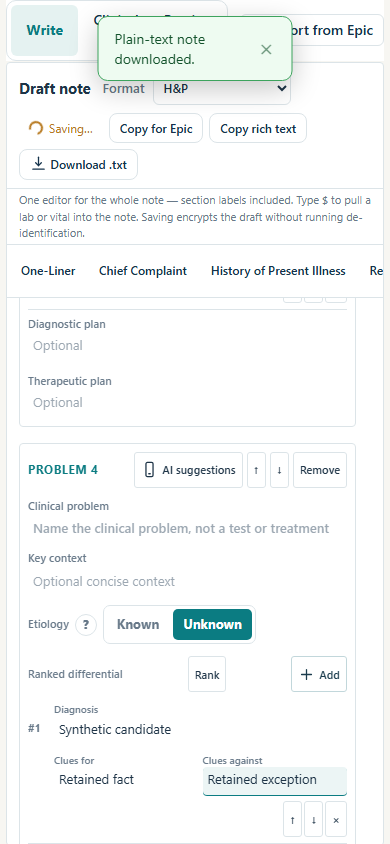
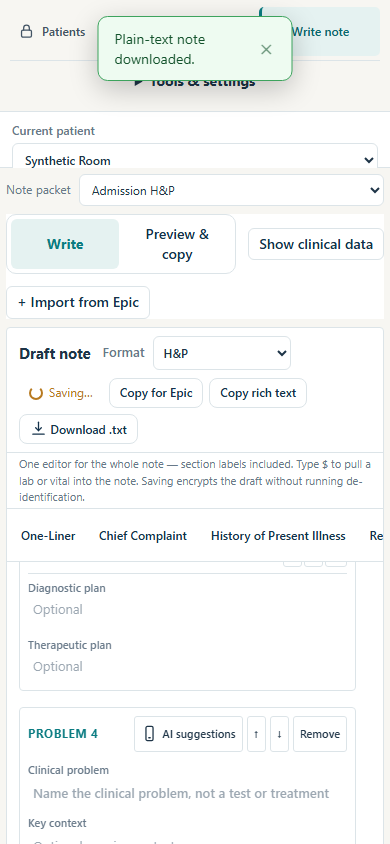
Replace duplicate writer modes with an explicit clinical data toggle

diff --git a/src/ui/review/presentation.js b/src/ui/review/presentation.js
@@ -357,8 +357,6 @@ export function createReviewPresentation({ escapeHtml, icon }) {
       + (showLabs ? (index.labs || []).filter((candidate) => candidate.kind === "narrative" && matchesQuery(candidate.searchText, q)).length : 0)
       + (showMeds ? (index.medications || []).filter((candidate) => matchesQuery(candidate.searchText, q)).length : 0)
       + (showDiagnostics ? (index.diagnosticResults || []).filter((candidate) => (!category || category === "all" || candidate.group === category) && matchesQuery(candidate.searchText, q)).length : 0);
-    const toggleLabel = clinicalDataCollapsed ? "Show clinical data" : "Hide clinical data";
-    const toggleIcon = clinicalDataCollapsed ? "▶" : "◀";
     // U4: when pasted text produced zero structured rows, say exactly what the
     // parser accepts so the student can re-paste in a supported format —
     // never claim parsing succeeded.
@@ -388,22 +386,11 @@ export function createReviewPresentation({ escapeHtml, icon }) {
       <p class="review-filter-summary" aria-live="polite">${matchCount} matching item${matchCount === 1 ? "" : "s"}</p>
       ${zeroYieldHint}
       <div class="review-data-list">${sections.length ? sections.join("") : `<div class="empty-state">No saved clinical data match this search.</div>`}</div>`;
-    // Both the collapsed rail and the full content are always rendered;
-    // the controller toggles `hidden` between them. Collapsing never
-    // re-renders, so scroll position and focus survive the toggle.
-    // (bodyHtml is built unconditionally above for this reason.)
-    const railHtml = `
-      <div class="clinical-data-rail" data-clinical-data-rail${clinicalDataCollapsed ? "" : " hidden"}>
-        <button type="button" class="clinical-data-rail-toggle" data-action="toggle-clinical-data" title="Show clinical data" aria-label="Show clinical data" aria-expanded="false">▶</button>
-        <span class="clinical-data-rail-label" aria-hidden="true">Clinical data</span>
-      </div>`;
-    const fullHtml = `
-      <div class="clinical-data-full" data-clinical-data-full${clinicalDataCollapsed ? " hidden" : ""}>
-      <div class="section-heading"><div><h2 id="reviewDataHeading">Clinical data</h2><p class="muted">Vitals and medications are in the note automatically — uncheck to remove. Check labs or results to add them.</p></div><button type="button" class="ed-mini" data-action="toggle-clinical-data" title="${toggleLabel}" aria-label="${toggleLabel}" aria-expanded="${!clinicalDataCollapsed}">${toggleIcon}</button></div>
-      ${bodyHtml}
-      </div>`;
-    return `<section class="review-data-panel panel${clinicalDataCollapsed ? " is-collapsed" : ""}" aria-labelledby="reviewDataHeading" data-clinical-data-collapsed="${clinicalDataCollapsed ? "true" : "false"}">
-      ${railHtml}${fullHtml}
+    return `<section id="reviewClinicalData" class="review-data-panel panel" aria-labelledby="reviewDataHeading" ${clinicalDataCollapsed ? "hidden" : ""}>
+      <div class="clinical-data-full" data-clinical-data-full>
+        <div class="section-heading"><div><h2 id="reviewDataHeading">Clinical data</h2><p class="muted">Vitals and medications are in the note automatically — uncheck to remove. Check labs or results to add them.</p></div></div>
+        ${bodyHtml}
+      </div>
     </section>`;
   }
 
@@ -972,13 +959,13 @@ export function createReviewPresentation({ escapeHtml, icon }) {
     const flaggedBanner = flaggedResults.length
       ? `<div class="review-flag-banner" role="alert"><strong>⚠ ${flaggedResults.length} result${flaggedResults.length === 1 ? "" : "s"} need${flaggedResults.length === 1 ? "s" : ""} report text:</strong> ${flaggedResults.map((candidate) => escapeHtml(candidate.name)).join(", ")}. <span class="muted">Open each in the admissions tab and paste the full report.</span></div>`
       : "";
-    return `<div class="review-workspace" data-workspace-tab="${workspaceTab}">
+    return `<div class="review-workspace" data-workspace-tab="${workspaceTab}" data-clinical-data-visible="${!clinicalDataCollapsed}">
       <div class="patient-identity-bar" role="status" aria-label="Active patient"><span class="patient-identity-bar-label">Patient</span><strong>${escapeHtml(patientLabel)}</strong></div>
       <header class="review-hero panel">
         <div><span class="eyebrow">${escapeHtml(patientLabel)}</span><h1 id="review-heading">Write note</h1><p class="review-one-liner ${oneLiner ? "" : "is-empty"}">${escapeHtml(oneLiner || "One-liner not entered yet. You can continue and add it in the draft.")}</p></div>
         <label class="review-packet-label">Note packet<select id="reviewPacketSelect">${packets.map((packet) => `<option value="${escapeHtml(packet.id)}" ${packet.id === selectedPacketId ? "selected" : ""}>${escapeHtml(packet.label)}</option>`).join("")}</select></label>
       </header>
-      <div class="writing-workflow-bar"><div role="tablist" aria-label="Writing workspace">${[["note", "Write"], ["sources", "Clinical data"], ["preview", "Preview & copy"]].map(([id,label]) => `<button type="button" role="tab" aria-selected="${workspaceTab === id}" data-action="workspace-tab" data-workspace-tab="${id}">${label}</button>`).join("")}</div><button type="button" data-action="import-for-note">+ Import from Epic</button></div>
+      <div class="writing-workflow-bar"><div role="tablist" aria-label="Writing workspace">${[["note", "Write"], ["preview", "Preview & copy"]].map(([id,label]) => `<button type="button" role="tab" aria-selected="${workspaceTab === id}" data-action="workspace-tab" data-workspace-tab="${id}">${label}</button>`).join("")}</div><button type="button" data-action="toggle-clinical-data" aria-controls="reviewClinicalData" aria-expanded="${!clinicalDataCollapsed}" ${workspaceTab === "preview" ? "hidden" : ""}>${clinicalDataCollapsed ? "Show clinical data" : "Hide clinical data"}</button><button type="button" data-action="import-for-note">+ Import from Epic</button></div>
       ${flaggedBanner}
       <section class="note-export-preview panel" ${workspaceTab !== "preview" ? "hidden" : ""} aria-label="Final note preview"><div class="section-heading"><div><h2>Review before copying</h2><p class="muted">This is the exact plain text that will be copied. Check source facts and remove any placeholders.</p></div><button type="button" data-action="copy-final-note" class="button--primary">Copy for Epic</button></div><pre>${escapeHtml(previewText || "No note content yet. Return to Write to begin.")}</pre><div class="button-row"><button type="button" data-action="workspace-tab" data-workspace-tab="note">Back to writing</button><button type="button" data-action="copy-rich-note">Copy rich text</button><button type="button" data-action="download-final-note">Download .txt</button></div></section>
       <div class="review-columns" ${workspaceTab === "preview" ? "hidden" : ""}>${renderDataExplorer({ index, selectedIds, query, category, baselineEditorId, collapsedFamilies, clinicalDataCollapsed })}${renderDraft({ draft, guidanceFor, differenceSelectionId, collapsedObjectiveGroups, smartExamUi, collapsedDraftSections, generatingApProblemId, apConfirm, apSuggestions })}</div>

diff --git a/src/ui/review/controller.js b/src/ui/review/controller.js
@@ -228,7 +228,7 @@ export function createReviewController(deps) {
 
   // Whether the Clinical Data panel is collapsed (user can focus on the note).
   // Local UI state only; survives re-renders.
-  let clinicalDataCollapsed = false;
+  let clinicalDataCollapsed = true;
   let workspaceTab = "note";
 
   // Find the nearest ancestor (or self) that is actually scrolled —
@@ -2323,7 +2323,7 @@ export function createReviewController(deps) {
     }
     if (action === "workspace-tab") {
       const requested = button.dataset.workspaceTab;
-      if (!["sources", "note", "preview"].includes(requested)) return true;
+      if (!["note", "preview"].includes(requested)) return true;
       workspaceTab = requested;
       render();
       deps.byId("reviewContent")?.querySelector(`[data-workspace-tab="${requested}"]`)?.focus({ preventScroll: true });
@@ -2431,91 +2431,16 @@ export function createReviewController(deps) {
       return true;
     }
     if (action === "toggle-clinical-data") {
-      // True surgical toggle: both the rail and the full content are
-      // always in the DOM (see renderDataExplorer). Flipping `hidden`
-      // never destroys the search input, the data list, or their state.
-      // Scroll preservation: the panel (or document, when the sticky panel
-      // itself doesn't scroll) keeps its scrollTop; save it on hide and
-      // restore it on show after layout settles.
-      const panel = target.closest(".review-data-panel");
-      const rail = panel?.querySelector("[data-clinical-data-rail]");
-      const full = panel?.querySelector("[data-clinical-data-full]");
-      const wasCollapsed = panel?.dataset.clinicalDataCollapsed === "true";
-      if (!wasCollapsed && panel && full && typeof document !== "undefined") {
-        const scroller = findScroller(full);
-        panel.dataset.savedScrollTop = String(scroller.scrollTop);
-        panel.dataset.scrollerIsDocument = String(
-          scroller === document.documentElement || scroller === document.body
-        );
-        // DEBUG v21: full ancestor scroll chain.
-        const chain = [];
-        let node = full;
-        while (node && node !== document.body && chain.length < 12) {
-          if (node instanceof HTMLElement) {
-            const r = node.getBoundingClientRect();
-            chain.push(`${node.tagName}.${(node.className || "").toString().split(" ")[0]}:st=${node.scrollTop},sh=${node.scrollHeight},ch=${node.clientHeight},top=${Math.round(r.top)}`);
-          }
-          node = node.parentElement;
-        }
-        panel.dataset.dbgChainHide = chain.join(" | ");
-      }
-      const nowCollapsed = !wasCollapsed;
-      // Keep the module variable in sync for the view model (initial render).
-      clinicalDataCollapsed = nowCollapsed;
-      // Blur the clicked toggle button: when its container hides, the
-      // browser may scroll the panel to keep the focused (now hidden)
-      // button in view, clobbering our restore.
-      if (typeof document !== "undefined" && document.activeElement instanceof HTMLElement) {
-        document.activeElement.blur();
-      }
-      if (rail) rail.hidden = !nowCollapsed;
-      if (full) full.hidden = nowCollapsed;
-      panel?.classList.toggle("is-collapsed", nowCollapsed);
-      if (panel) panel.dataset.clinicalDataCollapsed = String(nowCollapsed);
-      panel?.querySelectorAll('[data-action="toggle-clinical-data"]').forEach((btn) => {
-        btn.setAttribute("aria-expanded", String(!nowCollapsed));
-      });
-      if (panel && !nowCollapsed) {
-        const restoreTo = Number(panel.dataset.savedScrollTop || 0);
-        const scrollerIsDocument = panel.dataset.scrollerIsDocument === "true";
-        const ident = (el) => el ? `${el.tagName}.${(el.className || "").toString().split(" ")[0]}` : "(null)";
-        const doRestore = () => {
-          let target = findScroller(full || panel);
-          if (scrollerIsDocument && typeof document !== "undefined") {
-            target = document.documentElement;
-            document.body.scrollTop = restoreTo;
-          }
-          void target.scrollHeight; // force layout before setting scroll
-          target.scrollTop = restoreTo;
-          // DEBUG v20: record what restore did.
-          panel.dataset.dbgRestoreTarget = ident(target);
-          panel.dataset.dbgRestoreSet = `${restoreTo}->${target.scrollTop}`;
-        };
-        // Restore repeatedly: rAF for layout, then timeouts to beat any
-        // late browser scroll adjustments from the grid/display change.
-        if (typeof requestAnimationFrame !== "undefined") {
-          requestAnimationFrame(() => requestAnimationFrame(doRestore));
-        }
-        if (typeof setTimeout !== "undefined") {
-          setTimeout(doRestore, 50);
-          setTimeout(doRestore, 150);
-          // DEBUG v21: late chain — which box actually shows the content?
-          setTimeout(() => {
-            const chain = [];
-            let node = full;
-            while (node && node !== document.body && chain.length < 12) {
-              if (node instanceof HTMLElement) {
-                const r = node.getBoundingClientRect();
-                chain.push(`${node.tagName}.${(node.className || "").toString().split(" ")[0]}:st=${node.scrollTop},sh=${node.scrollHeight},ch=${node.clientHeight},top=${Math.round(r.top)}`);
-              }
-              node = node.parentElement;
-            }
-            panel.dataset.dbgChainLate = chain.join(" | ");
-          }, 600);
-        } else {
-          doRestore();
-        }
-      }
+      const workspace = deps.byId("reviewContent")?.querySelector(".review-workspace");
+      const panel = workspace?.querySelector("#reviewClinicalData");
+      if (!workspace || !panel) return true;
+      // One visibility state; keep the editor and source controls mounted so
+      // typing, selection, filters and their own scroll positions survive.
+      clinicalDataCollapsed = !clinicalDataCollapsed;
+      panel.hidden = clinicalDataCollapsed;
+      workspace.dataset.clinicalDataVisible = String(!clinicalDataCollapsed);
+      button.setAttribute("aria-expanded", String(!clinicalDataCollapsed));
+      button.textContent = clinicalDataCollapsed ? "Show clinical data" : "Hide clinical data";
       return true;
     }
     if (action === "toggle-objective-group") {
@@ -2863,5 +2788,5 @@ export function createReviewController(deps) {
       return handled;
     };
   }
-  return Object.freeze({ clearRequest: () => { clearApSession(); workspaceTab = "note"; }, change: withAutoSave(change), click: withAutoSave(click), input, keydown, open, prepare, render, saveDraft, toggle: withAutoSave(toggle), getDraftNoteText, getDraftNoteSections });
+  return Object.freeze({ clearRequest: () => { clearApSession(); workspaceTab = "note"; clinicalDataCollapsed = true; }, change: withAutoSave(change), click: withAutoSave(click), input, keydown, open, prepare, render, saveDraft, toggle: withAutoSave(toggle), getDraftNoteText, getDraftNoteSections });
 }

diff --git a/styles.css b/styles.css
@@ -14040,7 +14040,7 @@ div.ap-inline-change { display: block; margin: 0.3rem 0; }
 .review-hero{border-top:3px solid var(--accent)}
 @media(min-width:1100px){.review-columns{grid-template-columns:minmax(270px,.7fr) minmax(0,1.65fr)}}
 @media(max-width:1100px){.structured-note-section-layout.has-original{grid-template-columns:minmax(145px,.7fr) minmax(240px,1.3fr)}.note-original-pane{grid-column:1/-1}.note-original-pane textarea{min-height:140px;max-height:260px}}
-@media(max-width:760px){.structured-note-section-layout.has-original{grid-template-columns:1fr}.note-original-pane{grid-column:auto}.structured-note-section-nav{max-height:170px;overflow:auto}.review-workspace[data-workspace-tab=note] .review-data-panel{display:none}.review-workspace[data-workspace-tab=sources] .note-draft-panel{display:none}.review-workspace .review-columns{display:block}.writing-workflow-bar{position:sticky;top:0;z-index:4;background:var(--background,var(--surface));padding:8px 0}.writing-workflow-bar [role=tablist]{flex:1}.writing-workflow-bar [role=tab]{flex:1}.note-mapping-tools .button-row{flex-wrap:wrap}.note-mapping-tools button{min-height:44px}}
+@media(max-width:760px){.structured-note-section-layout.has-original{grid-template-columns:1fr}.note-original-pane{grid-column:auto}.structured-note-section-nav{max-height:170px;overflow:auto}.review-workspace[data-clinical-data-visible="false"] .review-data-panel{display:none}.review-workspace[data-clinical-data-visible="true"] .review-columns .note-draft-panel{display:none}.review-workspace .review-columns{display:block}.writing-workflow-bar{position:sticky;top:0;z-index:4;background:var(--background,var(--surface));padding:8px 0}.writing-workflow-bar [role=tablist]{flex:1}.writing-workflow-bar [role=tab]{flex:1}.note-mapping-tools .button-row{flex-wrap:wrap}.note-mapping-tools button{min-height:44px}}
 
 .secondary-navigation > summary{cursor:pointer;padding:10px 8px;font-weight:650;min-height:44px}
 @media(min-width:1041px){.secondary-navigation > summary{display:none}}
@@ -14239,8 +14239,8 @@ div.ap-inline-change { display: block; margin: 0.3rem 0; }
 .review-packet-label select { width:200px; min-height:32px; padding:4px 8px; }
 .review-workspace > .writing-workflow-bar { grid-column:2; margin:0; padding:0; min-height:34px; }
 .writing-workflow-bar button { min-height:32px; padding:5px 10px; }
-.review-workspace[data-workspace-tab="note"] .review-data-panel { display:none; }
-.review-workspace[data-workspace-tab="note"] .review-columns { display:block; }
+.review-workspace[data-clinical-data-visible="false"] .review-data-panel { display:none; }
+.review-workspace[data-clinical-data-visible="false"] .review-columns { display:block; }
 .review-workspace .review-columns .note-draft-panel { position:static; max-height:none; border:1px solid var(--border); border-radius:4px; padding:0; display:block; }
 .note-draft-panel .note-editor-toolbar { padding:8px 12px; gap:8px; min-height:44px; }
 .note-editor-title h2 { font-size:15px; }
@@ -14274,9 +14274,9 @@ div.ap-inline-change { display: block; margin: 0.3rem 0; }
 .differential-row .ed-decision1 { grid-column:1; font-size:10px; padding:1px; border-radius:2px; }
 .differential-row .ed-sub-label { font-size:10px; margin:0; }
 .differential-row .ed-body { font-size:13px; min-height:28px; line-height:1.35; }
-.review-workspace[data-workspace-tab="sources"] .writer-layout { grid-template-columns:minmax(0,1fr); }
-.review-workspace[data-workspace-tab="sources"] .writer-outline { display:none; }
-.review-workspace[data-workspace-tab="sources"] .differential-row { grid-template-columns:24px minmax(0,1fr) minmax(0,1fr) minmax(0,1fr) 80px; }
+.review-workspace[data-clinical-data-visible="true"] .writer-layout { grid-template-columns:minmax(0,1fr); }
+.review-workspace[data-clinical-data-visible="true"] .writer-outline { display:none; }
+.review-workspace[data-clinical-data-visible="true"] .differential-row { grid-template-columns:24px minmax(0,1fr) minmax(0,1fr) minmax(0,1fr) 80px; }
 @media(max-width:1040px) {
  .writer-layout { height:clamp(350px,calc(100dvh - 290px),700px); }
  .review-workspace { grid-template-columns:minmax(0,1fr); }
@@ -14296,7 +14296,7 @@ div.ap-inline-change { display: block; margin: 0.3rem 0; }
  .differential-row .differential-row-actions { grid-column:2/4; grid-row:3; padding:0; justify-content:flex-end; }
  .note-editor .ed-mini { min-height:36px; }
  .plan-problem-card > .ed-sub { grid-template-columns:1fr; gap:2px; }
- .review-workspace[data-workspace-tab="sources"] .writer-layout { display:none; }
+ .review-workspace[data-clinical-data-visible="true"] .writer-layout { display:none; }
 }
 /* Epic import keeps the source, section index and corrections in one fixed workspace. */
 .note-arrange-workspace { grid-template-columns:160px minmax(0,1fr); }

diff --git a/tests/test-review-data-browser.js b/tests/test-review-data-browser.js
@@ -237,7 +237,7 @@ Sodium: 138`;
 
   // Clinical data is one tab from the full-width writer; it has no pagination.
   await page.click('[data-view-target="review"]');
-  await page.getByRole("tab", { name: "Clinical data", exact: true }).click();
+  if (await page.getByRole("button", { name: "Show clinical data", exact: true }).count()) await page.getByRole("button", { name: "Show clinical data", exact: true }).click();
   await page.waitForSelector("#reviewContent .review-workspace");
   assert.equal(await page.locator("#reviewDataCategory").inputValue(), "all", "opening Patient Data Review must reveal labs, vitals, medications, and results");
   assert.equal(await page.locator(".review-data-pagination").count(), 0, "the compact sheet must not paginate");
@@ -308,7 +308,7 @@ Sodium: 138`;
   await hrChip.locator('[data-objective-selection-id]').uncheck();
   await page.click('[data-view-target="daily"]');
   await page.click('[data-view-target="review"]');
-  await page.getByRole("tab", { name: "Clinical data", exact: true }).click();
+  if (await page.getByRole("button", { name: "Show clinical data", exact: true }).count()) await page.getByRole("button", { name: "Show clinical data", exact: true }).click();
   await page.waitForSelector("#reviewContent .review-workspace");
   assert.equal(await page.locator(".vital-row", { hasText: "Heart Rate" }).first().locator('[data-objective-selection-id]').isChecked(), false, "deselected vitals must stay out of the note");
 
@@ -317,7 +317,7 @@ Sodium: 138`;
   await page.waitForFunction(() => [...document.querySelectorAll('.compact-medications [data-objective-selection-id]')].filter((box) => box.checked).length === 1);
   await page.click('[data-view-target="daily"]');
   await page.click('[data-view-target="review"]');
-  await page.getByRole("tab", { name: "Clinical data", exact: true }).click();
+  if (await page.getByRole("button", { name: "Show clinical data", exact: true }).count()) await page.getByRole("button", { name: "Show clinical data", exact: true }).click();
   await page.waitForSelector("#reviewContent .review-workspace");
   assert.equal(await page.locator(".scaffold-med-list li").count(), 1, "removed medications must stay removed");
 
@@ -341,7 +341,7 @@ Sodium: 138`;
   await page.click('[data-action="save-day"]');
   await page.waitForFunction(() => /Source edits saved/.test(document.querySelector("#statusLine")?.textContent || ""));
   await page.click('[data-view-target="review"]');
-  await page.getByRole("tab", { name: "Clinical data", exact: true }).click();
+  if (await page.getByRole("button", { name: "Show clinical data", exact: true }).count()) await page.getByRole("button", { name: "Show clinical data", exact: true }).click();
   await page.fill("#reviewDataSearch", "WBC");
   await page.waitForSelector('[data-action="refresh-objective-group"]');
   assert.equal((await editorText(wbcBlock.locator("[data-objective-group-text]"))).trim(), "Student wording: WBC has improved substantially.");
@@ -398,7 +398,7 @@ Sodium: 138`;
   await page.click('[data-action="select-structured-note-mode"][data-note-scope="daily"][data-note-mode="paste"]');
   assert.doesNotMatch(await page.locator('[data-structured-note-paste][data-structured-note-scope="daily"]').inputValue(), new RegExp(sessionOnlyRawToken), "locking must clear the session-only raw paste draft");
   await page.click('[data-view-target="review"]');
-  await page.getByRole("tab", { name: "Clinical data", exact: true }).click();
+  if (await page.getByRole("button", { name: "Show clinical data", exact: true }).count()) await page.getByRole("button", { name: "Show clinical data", exact: true }).click();
   await page.selectOption("#reviewPacketSelect", savedPacketValue);
   await page.fill("#reviewDataSearch", "CT Head/Neck");
   assert.equal(await page.locator('.compact-row [data-objective-selection-id]').first().isChecked(), true);

diff --git a/src/ui/app.js b/src/ui/app.js
@@ -1,4 +1,4 @@
-import { installNavigationDisclosure, syncNavigationDisclosure } from "./navigation.js?v=20261012-compact-workspaces";
+import { installNavigationDisclosure, syncNavigationDisclosure } from "./navigation.js?v=20261012-writer-controls";
 import {
   createDailyRecord,
   latestDay,
@@ -106,11 +106,11 @@ import {
   normalizeUserPreferences
 } from "../app/preferences.js?v=20261011-request-controls";
 import { icon } from "./icons.js?v=20260711-functional-remediation-15&icon=book-v1&icon=search-v1";
-import { createDailyPresentation } from "./daily/presentation.js?v=20261012-compact-workspaces";
-import { createDailySourceController } from "./daily/source-controller.js?v=20261012-compact-workspaces";
+import { createDailyPresentation } from "./daily/presentation.js?v=20261012-writer-controls";
+import { createDailySourceController } from "./daily/source-controller.js?v=20261012-writer-controls";
 import { navigateClinicalLabCollections, updateClinicalMedicationPage } from "./daily/clinical-display-controller.js?v=20260921-medication-card-v4";
-import { createReviewPresentation } from "./review/presentation.js?v=20261012-compact-workspaces";
-import { createReviewController } from "./review/controller.js?v=20261012-compact-workspaces";
+import { createReviewPresentation } from "./review/presentation.js?v=20261012-writer-controls";
+import { createReviewController } from "./review/controller.js?v=20261012-writer-controls";
 import { createPromptsPresentation, renderHighlightedSegments } from "./prompts/presentation.js?v=20261012-citation-preview";
 import {
   createPromptTaskController,
@@ -140,7 +140,7 @@ import { createQuickDeidPresentation } from "./quick-deid/presentation.js?v=2026
 import { createRuleLearnerDemo } from "./quick-deid/rule-learner-demo.js?v=20261011-epic-workflow";
 import { createDeidSessionCoordinator } from "./deid/session-coordinator.js?v=20261003-deid-adaptive";
 import { runQuickDeidLlmVerification, selectedLlmVerifierModel } from "./deid/llm-verifier-session.js?v=20261011-epic-workflow";
-import { createDemoController } from "./demo/controller.js?v=20261012-compact-workspaces";
+import { createDemoController } from "./demo/controller.js?v=20261012-writer-controls";
 import { createDemoPatient, DEMO_DAILY_TEXTS } from "./demo/session.js?v=20261012-citation-preview";
 import { createDemoSessionController } from "./demo/session-controller.js?v=20261012-citation-preview";
 import { createAiChatController } from "./ai-chat/controller.js?v=20261012-citation-preview";

diff --git a/tests/test-compact-writer-browser.js b/tests/test-compact-writer-browser.js
@@ -48,8 +48,15 @@ try {
     await link.click();
     assert.equal(await page.locator(`[data-draft-section-id="${id}"]`).getAttribute("open"), "");
   }
-  await page.getByRole("tab", { name: "Clinical data", exact: true }).click();
+  assert.equal(await page.getByRole("tab", { name: /Source|Clinical data/ }).count(), 0);
+  await page.getByRole("button", { name: "Show clinical data", exact: true }).click();
   assert.equal(await page.locator(".review-data-panel").isVisible(), true);
+  await page.locator("#reviewDataSearch").fill("retained filter");
+  await page.getByRole("button", { name: "Hide clinical data", exact: true }).click();
+  assert.equal(await page.locator(".review-data-panel").isVisible(), false);
+  await page.getByRole("button", { name: "Show clinical data", exact: true }).click();
+  assert.equal(await page.locator("#reviewDataSearch").inputValue(), "retained filter");
+  await page.getByRole("button", { name: "Hide clinical data", exact: true }).click();
   await page.getByRole("tab", { name: "Write", exact: true }).click();
   assert.equal(await page.locator(".writer-outline").isVisible(), true);
   await page.getByRole("tab", { name: "Preview & copy", exact: true }).click();
@@ -75,6 +82,12 @@ try {
     await last.locator('[data-differential-field="cluesFor"]').fill("Retained fact");
     await last.locator('[data-differential-field="cluesAgainst"]').fill("Retained exception");
     assert.equal(await page.evaluate(() => document.documentElement.scrollWidth <= innerWidth), true);
+    await page.getByRole("button", { name: "Show clinical data", exact: true }).click();
+    assert.equal(await page.locator(".review-data-panel").isVisible(), true);
+    if (width === 390) assert.equal(await page.locator(".note-draft-panel").isVisible(), false);
+    await page.getByRole("button", { name: "Hide clinical data", exact: true }).click();
+    assert.equal(await page.locator(".note-draft-panel").isVisible(), true);
+    assert.equal(await last.locator('[data-differential-field="cluesAgainst"]').innerText(), "Retained exception");
     if (width === 390 && !process.env.COMPACT_APP_URL) await page.screenshot({ path: "docs/compact-workspace/after-390-writer.png" });
   }
   assert.deepEqual(errors, []);

diff --git a/tests/test-guided-demo-browser.js b/tests/test-guided-demo-browser.js
@@ -158,7 +158,7 @@ try {
   assert.match(await page.locator("[data-draft-assessment]").innerText(), /high-risk NSTEMI/i);
   assert.equal(await page.locator(".plan-problem-card").count(), 3);
   assert.match(await page.locator('.plan-problem-card').first().locator('[data-problem-field="diagnosticPlan"]').innerText(), /Coronary angiography is planned today/i);
-  await page.getByRole("tab", { name: "Clinical data", exact: true }).click();
+  if (await page.getByRole("button", { name: "Show clinical data", exact: true }).count()) await page.getByRole("button", { name: "Show clinical data", exact: true }).click();
   await page.locator("#reviewDataSearch").click();
   await page.waitForTimeout(350); // cross the tour's delayed spotlight reposition
   assert.equal(await page.evaluate(() => document.activeElement?.id), "reviewDataSearch", "the writing tour must not steal focus from clinical-data search");

diff --git a/index.html b/index.html
@@ -41,7 +41,7 @@
     <meta name="twitter:description" content="Organize hospital-day updates, browse bedside cheat sheets, and draft OpenEvidence prompts — everything encrypted in your browser.">
     <title>Preround</title>
     <link rel="icon" href="./favicon.ico">
-    <link rel="stylesheet" href="./styles.css?v=20261012-compact-workspaces">
+    <link rel="stylesheet" href="./styles.css?v=20261012-writer-controls">
     <style>
     /* Scribe Pro in-app view: styles scoped under #scribeProView so they never
        leak into the app shell. Uses the app's light-theme tokens (no local
@@ -434,6 +434,6 @@
     </div>
 
     <input id="modelPackFolderInput" type="file" webkitdirectory multiple hidden>
-    <script type="module" src="./src/ui/app.js?v=20261012-compact-workspaces"></script>
+    <script type="module" src="./src/ui/app.js?v=20261012-writer-controls"></script>
   </body>
 </html>

diff --git a/docs/compact-workspace/README.md b/docs/compact-workspace/README.md
@@ -1,5 +1,7 @@
 # Compact workspaces: design and measured verification
 
+Follow-up: the overlapping Clinical data / Write modes have been replaced by one writer with an explicit Show/Hide clinical data button. Preview remains separate. The measurements and desktop screenshots below document the original compact-layout release `58819eaf`; the phone screenshot reflects the follow-up controls. Browser regressions verify that toggling the reference panel retains edits and filters.
+
 Date: 2026-10-12. Baseline: `e842e65e1b65817ccb9fe9b824176b756bad674f`.
 
 The ImageGen reference is [design-reference.png](design-reference.png). The implementation follows its horizontal navigation, fixed source pane, persistent section index, full-width writer, note outline, and compact differential rows. The real app retains its existing actions, data model and privacy language; illustrative controls or clinical claims invented by the image were not added.
